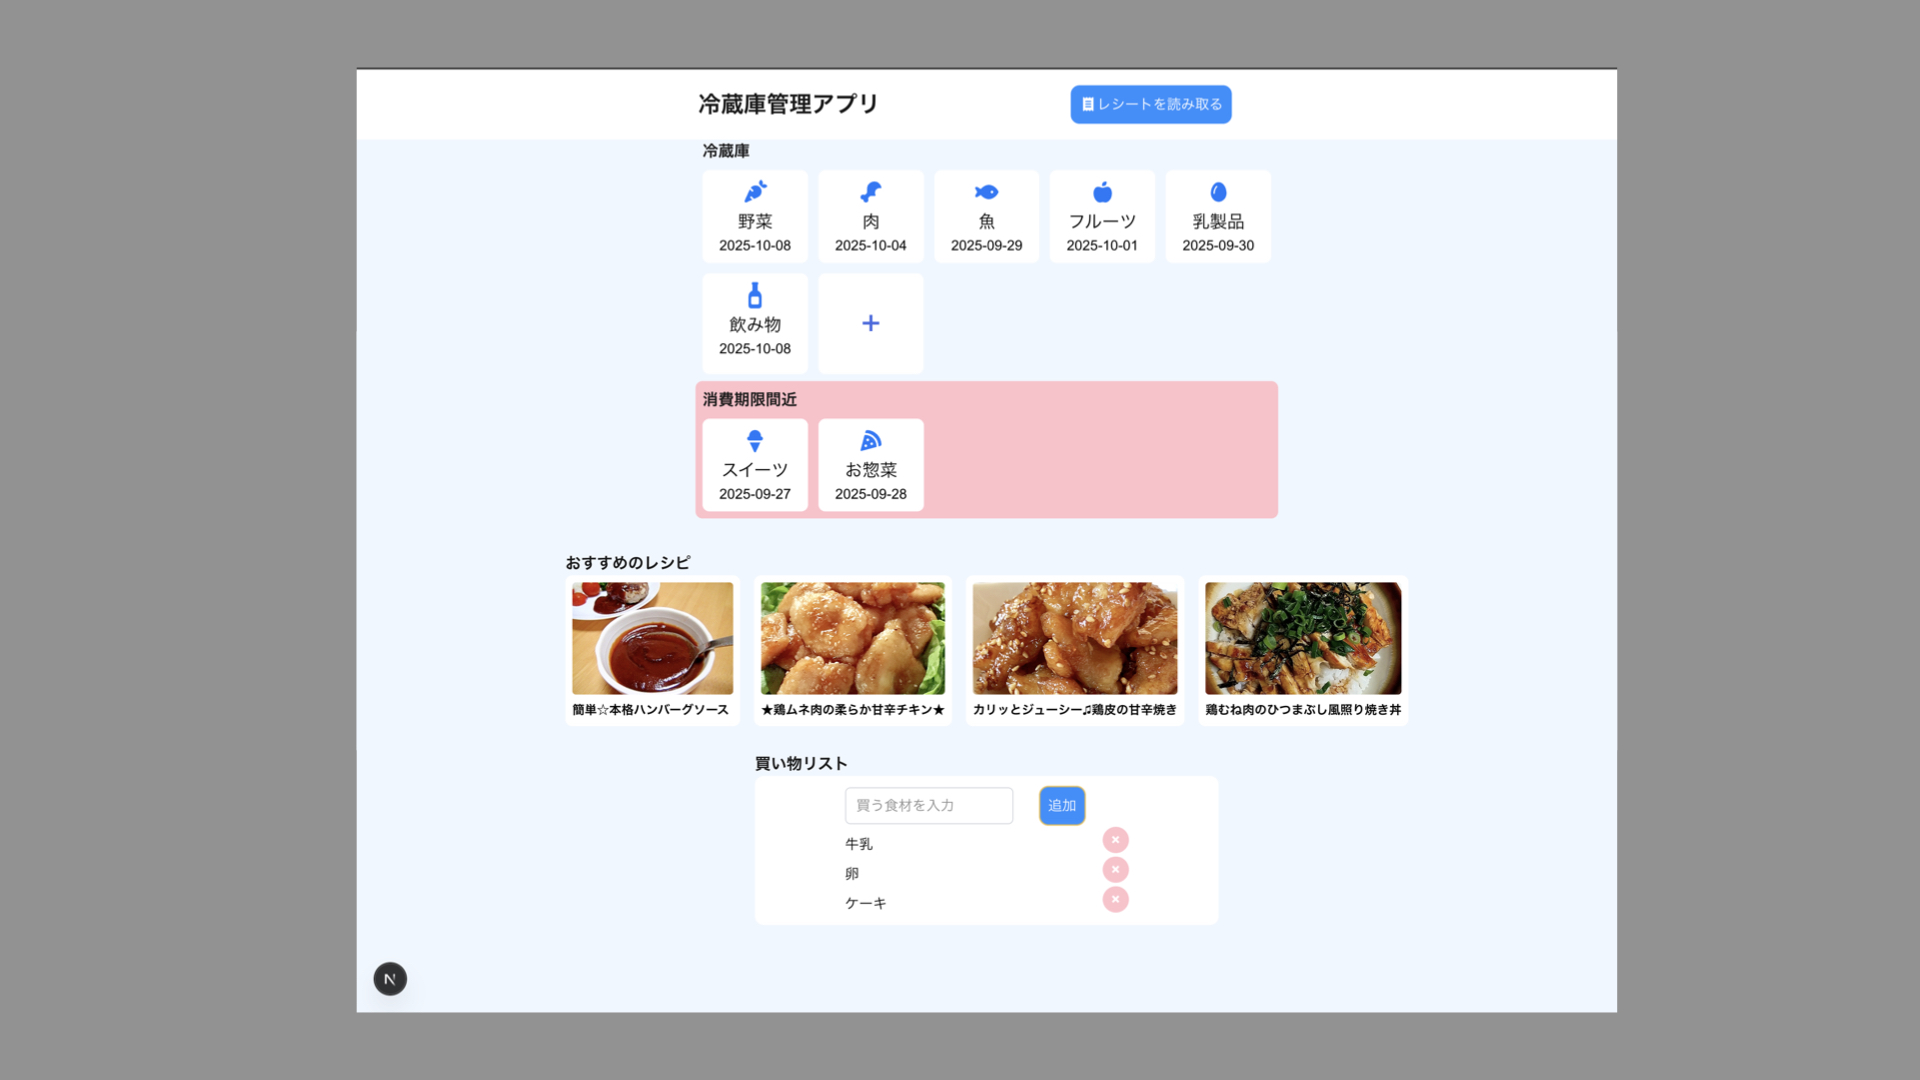
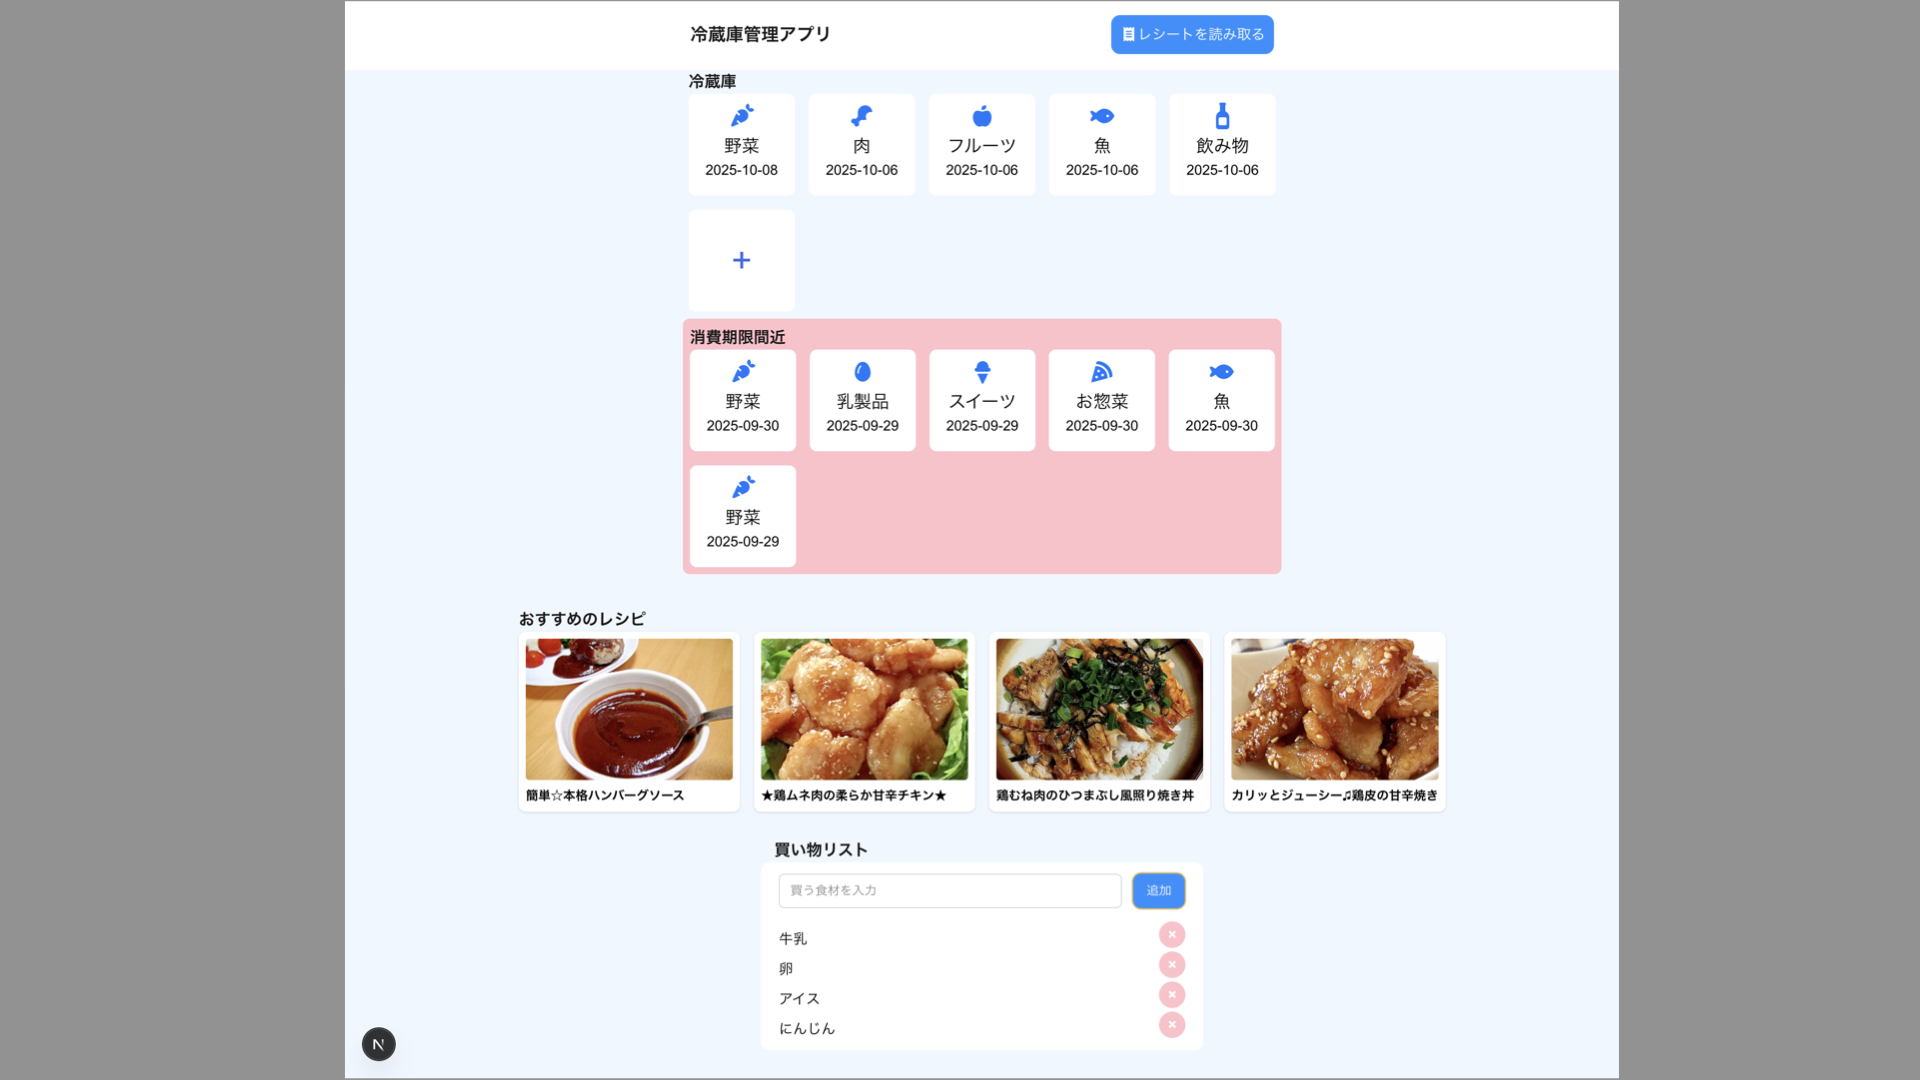
レスポンシブの設定

diff --git a/src/components/Recipe.tsx b/src/components/Recipe.tsx
@@ -37,22 +37,23 @@ const Recipe = () => {
   return (
     <div className="recipe-container">
       <h1 className="recommend">おすすめのレシピ</h1>
-      <ul className="flex gap-4 overflow-x-auto">
+      {/*スマホは１列・ミニタブレット２列・タブレットで３列・PCで４列*/}
+      <ul className="grid grid-cols-1 sm:grid-cols-2 md:grid-cols-3 lg:grid-cols-4 gap-4">
         {recipes.map((r) => (
           <li
             key={r.recipeId}
-            className="min-w-[200px]  rounded-lg p-2 bg-white"
+            className="bg-white rounded-lg p-2 shadow hover:shadow-md transition"
           >
             <a
               href={r.recipeUrl}
               target="_blank"
               rel="noopener noreferrer"
-              className="block focus:outline-none focus:ring-2 focus:ring-blue-500 rounded cursor-pointer"
+              className="block"
             >
               <img
                 src={r.foodImageUrl}
                 alt={r.recipeTitle}
-                className="w-full h-32 object-cover rounded"
+                className="w-full h-40 object-cover rounded"
               />
               <p className="mt-2 text-sm font-bold">{r.recipeTitle}</p>
             </a>

diff --git a/src/components/InputShopping.css b/src/components/InputShopping.css
@@ -1,8 +1,17 @@
+.input-area {
+  display: flex;
+  align-items: center;
+  gap: 12px;
+  margin-bottom: 12px;
+}
+
 .input-area input {
+  flex: 1; /* 横幅を調整 */
   border: 1px solid #d1d5db;
   border-radius: 6px;
   padding: 8px 12px;
-  margin-right: 30px;
+  font-size: 14px;
+  min-width: 0;
 }
 
 .input-area input:focus {
@@ -11,15 +20,34 @@
 }
 
 .shopping-add {
-  margin-right: 50px;
-  padding: 10px;
+  flex-shrink: 0; /* ボタンは縮まない */
+  padding: 10px 16px;
   border-radius: 10px;
   background-color: #1e90ff;
   color: white;
+  font-size: 14px;
+  cursor: pointer;
 }
 
 .shopping-add:hover:not(:disabled) {
+  /*ボタンが有効な時に限り、ホバーすると背景色を水色に変える*/
   background-color: #87cefa;
-  color: white;
-  cursor: pointer;
+}
+
+/*モバイル用 */
+@media (max-width: 640px) {
+  .input-area {
+    gap: 8px;
+  }
+
+  .input-area input {
+    font-size: 13px;
+    padding: 6px 10px;
+  }
+
+  .shopping-add {
+    font-size: 13px;
+    padding: 8px 12px;
+    border-radius: 8px;
+  }
 }

diff --git a/src/components/ShoppingList.css b/src/components/ShoppingList.css
@@ -4,15 +4,22 @@
   align-items: center;
   flex-direction: column;
   background-color: white;
-  width: 530px;
+  width: 500px;
   height: auto;
   border-radius: 10px;
-  margin-bottom: 100px;
+  margin: 0 auto 100px;
+}
+
+.shopping {
+  max-width: 500px;
+  margin: 0 auto;
+  padding-left: 15px;
+  font-weight: bold;
+  font-size: 18px;
 }
 
 .shopping-inner {
-  max-width: 700px;
-  margin: 0 auto;
+  width: 100%;
   padding: 12px 20px;
   display: flex;
   flex-direction: column;
@@ -26,7 +33,23 @@
 }
 
 .shopping-list {
-  flex: 1; /*伸び縮みして残りのスペースを埋める*/
-  word-break: break-word; /* 長い文字でも折り返し */
+  flex: 1;
+  word-break: break-word;
   margin-top: 10px;
+  font-size: 14px;
+}
+
+/* タブレット以上で文字サイズを戻す */
+@media (min-width: 640px) {
+  .shopping-list {
+    font-size: 16px;
+  }
+}
+
+/* タブレット以下は幅縮む */
+@media (max-width: 639px) {
+  .shopping-container {
+    width: 90%;
+    max-width: 500px;
+  }
 }

diff --git a/src/components/ItemCards.css b/src/components/ItemCards.css
@@ -1,19 +1,10 @@
-.itemCard {
-  display: grid;
-  grid-template-columns: repeat(5, minmax(0, 1fr));
-  gap: 12px;
-  margin-top: 8px;
-  padding-left: 0;
-  list-style: none;
-  width: 650px;
-}
-
 .item-container {
   position: relative;
   border-radius: 8px;
   background-color: white;
   padding: 8px;
   text-align: center;
+  height: 115px;
 }
 
 .item-container:hover {
@@ -30,35 +21,10 @@
 .name {
   font-size: 20px;
   color: black;
-  overflow-wrap: anywhere;
+  overflow-wrap: anywhere; /*どこでも折り返す*/
 }
+
 .expirationDate {
   font-size: 16px;
   color: black;
-}
-
-.modal {
-  position: fixed;
-  top: 0;
-  left: 0;
-  width: 100%;
-  height: 100%;
-  background: rgba(0, 0, 0, 0.4);
-  display: flex;
-  justify-content: center;
-  align-items: center;
-}
-
-.modal-content {
-  background: white;
-  padding: 20px;
-  border-radius: 8px;
-  min-width: 300px;
-}
-
-.modal-actions {
-  margin-top: 12px;
-  display: flex;
-  gap: 8px;
-  justify-content: flex-end;
 }

diff --git a/src/components/ExpirationArea.tsx b/src/components/ExpirationArea.tsx
@@ -13,7 +13,7 @@ import {
   faAppleWhole,
 } from "@fortawesome/free-solid-svg-icons";
 import { IconDefinition } from "@fortawesome/fontawesome-svg-core";
-import "./ExpirationArea.css"; // ← 専用CSSを使用
+import "./ExpirationArea.css";
 
 type Item = { id: number; categoryId: string; expiration: string };
 
@@ -53,7 +53,8 @@ const ExpirationArea = ({
   return (
     <div className="expiration-area">
       <h1 className="alert">消費期限間近</h1>
-      <div className="itemCard">
+      {/*スマホは１列・ミニタブレット2列・タブレットで4列・PCで5列*/}
+      <div className="grid grid-cols-2 sm:grid-cols-3 md:grid-cols-4 lg:grid-cols-5 gap-4">
         {items.map((item) => (
           <div key={`exp-${item.id}`} className="item-container">
             <span className="icon">{getIcon(item.categoryId)}</span>

diff --git a/src/components/ExpirationArea.css b/src/components/ExpirationArea.css
@@ -1,14 +1,21 @@
 .expiration-area {
   border: none;
-  width: 666px;
+  width: 70%;
+  max-width: 677px;
   height: auto;
   padding: 8px;
-  margin: 8px;
+  margin: 8px auto; /* 中央寄せ */
   border-radius: 8px;
   background-color: #ffc0cb;
 }
 
-.expiration-list {
-  flex: 1; /*伸び縮みして残りのスペースを埋める*/
-  word-break: break-word; /* 長い文字でも折り返し */
+.itemCard {
+  display: flex;
+  flex-wrap: wrap; /* 画面サイズに合わせて複数行に折り返し */
+  justify-content: flex-start; /* 左寄せ */
+}
+
+.item-container {
+  width: 120px; /*カードの横幅を固定 */
+  flex: 0 0 auto; /* 伸縮防止 */
 }

diff --git a/src/components/ItemCards.tsx b/src/components/ItemCards.tsx
@@ -56,7 +56,8 @@ const ItemCards = ({
   return (
     <div>
       <h1>冷蔵庫</h1>
-      <div className="itemCard">
+      {/*スマホは１列・ミニタブレット3列・タブレットで4列・PCで5列*/}
+      <div className="grid grid-cols-2 sm:grid-cols-3 md:grid-cols-4 lg:grid-cols-5 gap-4">
         {items.map((item) => (
           <div key={`item-${item.id}`} className="item-container">
             <span className="icon">{getIcon(item.categoryId)}</span>

diff --git a/src/components/Header.css b/src/components/Header.css
@@ -1,5 +1,4 @@
 .receipt {
-  margin-right: 50px;
   padding: 10px;
   border-radius: 10px;
   background-color: #1e90ff;
@@ -8,7 +7,7 @@
 
 .title {
   font-weight: bold;
-  font-size: 26px;
+  font-size: 20px;
 }
 
 .header {
